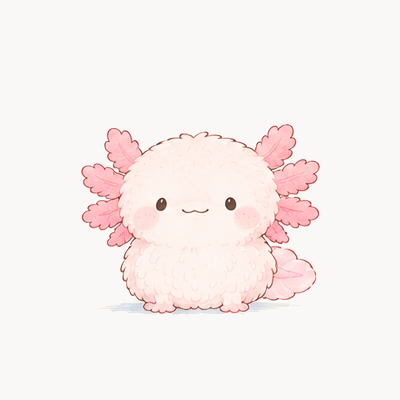
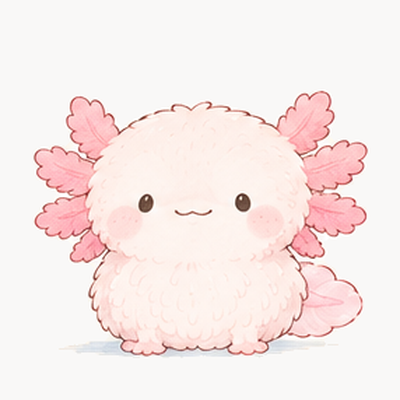
feat: 社員イラストを約1.4倍に拡大して作り直し、OGPの拡大を等倍に整理

diff --git a/scripts/make_ogp.py b/scripts/make_ogp.py
@@ -36,7 +36,7 @@ html,body{margin:0;width:1200px;height:630px;background:#f9f8f7;color:#4a3728;fo
 .t2{position:absolute;left:80px;top:258px;font-size:56px;line-height:72px}
 .t3{position:absolute;left:80px;top:344px;font-size:32px;line-height:44px;color:#6e5a4c}
 .paws{position:absolute;left:84px;top:500px;display:flex;gap:34px;color:#ddd3c4}
-img{position:absolute;right:%(r)dpx;bottom:%(b)dpx;width:480px;height:480px}  /* 400 角を 1.2 倍（OGP は縮小表示される前提で、ここだけ拡大を許す） */
+img{position:absolute;right:%(r)dpx;bottom:%(b)dpx}
 </style>
 <div class="t1">ぺんぎんラボ</div><div class="rule"></div>
 <div class="t2">日常の面倒をなくす</div>
@@ -62,7 +62,7 @@ def main() -> int:
     with tempfile.TemporaryDirectory() as tmp:
         tmp = Path(tmp)
         penta.save(tmp / "penta.png")
-        html = HTML % {"f": (FONTS.as_uri()), "img": "penta.png", "r": 50, "b": -60, "paws": PAW * 3}
+        html = HTML % {"f": (FONTS.as_uri()), "img": "penta.png", "r": 60, "b": 0, "paws": PAW * 3}
         (tmp / "ogp.html").write_text(html, encoding="utf-8")
         out = Path(sys.argv[2]).resolve()
         subprocess.run([browser, "--headless", "--disable-gpu", "--hide-scrollbars",

diff --git a/scripts/crop_member_sheets.py b/scripts/crop_member_sheets.py
@@ -21,8 +21,8 @@ import crop_members as cm  # noqa: E402
 IDS = ["penta", "konko", "poko", "hime", "koko", "moko", "mike", "piyo", "holo", "kumaji"]
 SEARCH = (0, 80, 345, 385)  # 1段目いちばん左「まえ」の範囲（見出し帯は y<80、隣の「よこ」は x>345）  札や記号は別の成分になり、最大の成分だけを残す
 THRESHOLD = 14
-SCALE = 1.0  # 新版は全員 270px 以下で描かれているので縮小しない（拡大もしない）。大きいキャラが入らなくなったら全員同じ率で下げる
-FOOT_MARGIN = 85  # 足元から窓の下端まで。一番背の高いキャラ（約230px）が窓の中ほどに来る高さ
+SCALE = 1.4  # 「拡大しない」方針の例外: 新版シートは1体が約200pxと小さいため、全員同じ率で LANCZOS 拡大（オーナー判断 2026-10-21）
+FOOT_MARGIN = 42  # 拡大後の足元から下端まで。一番背の高いキャラ（約230px→322px）の上に約36pxの余白が残る
 GROW = 5  # 毛先のやわらかい輪郭を残すための膨張（画素）
 
 
